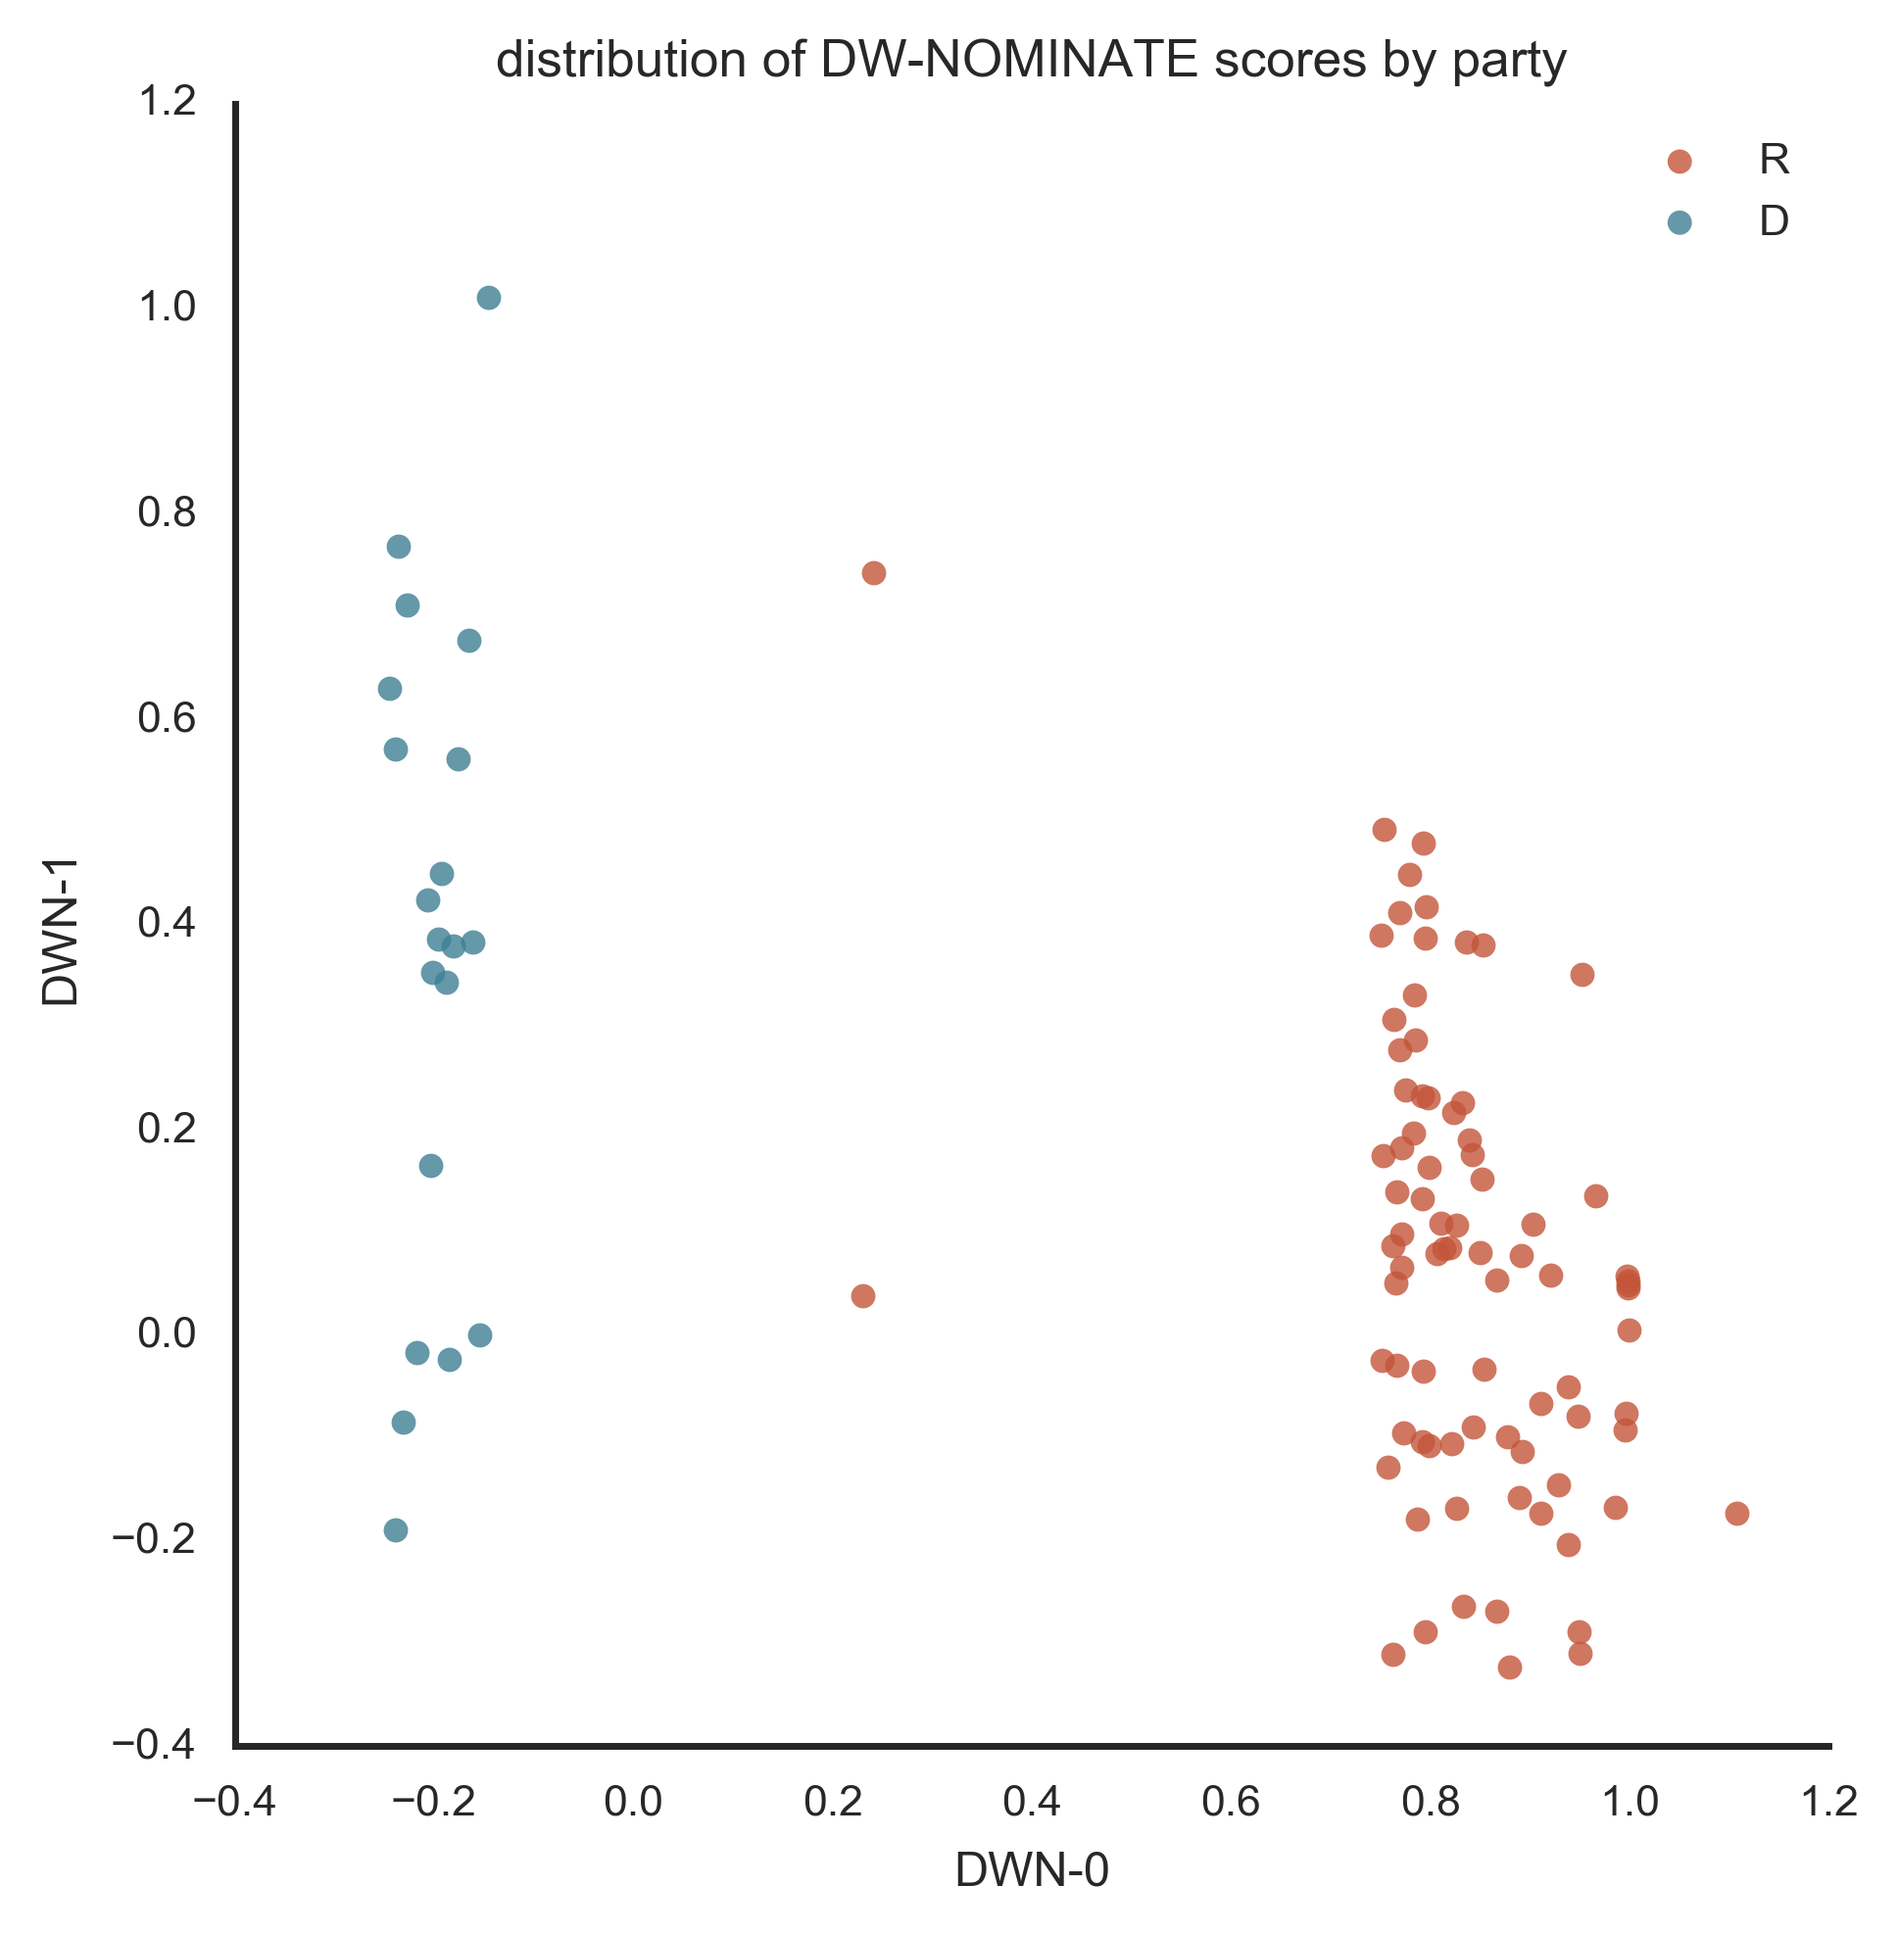
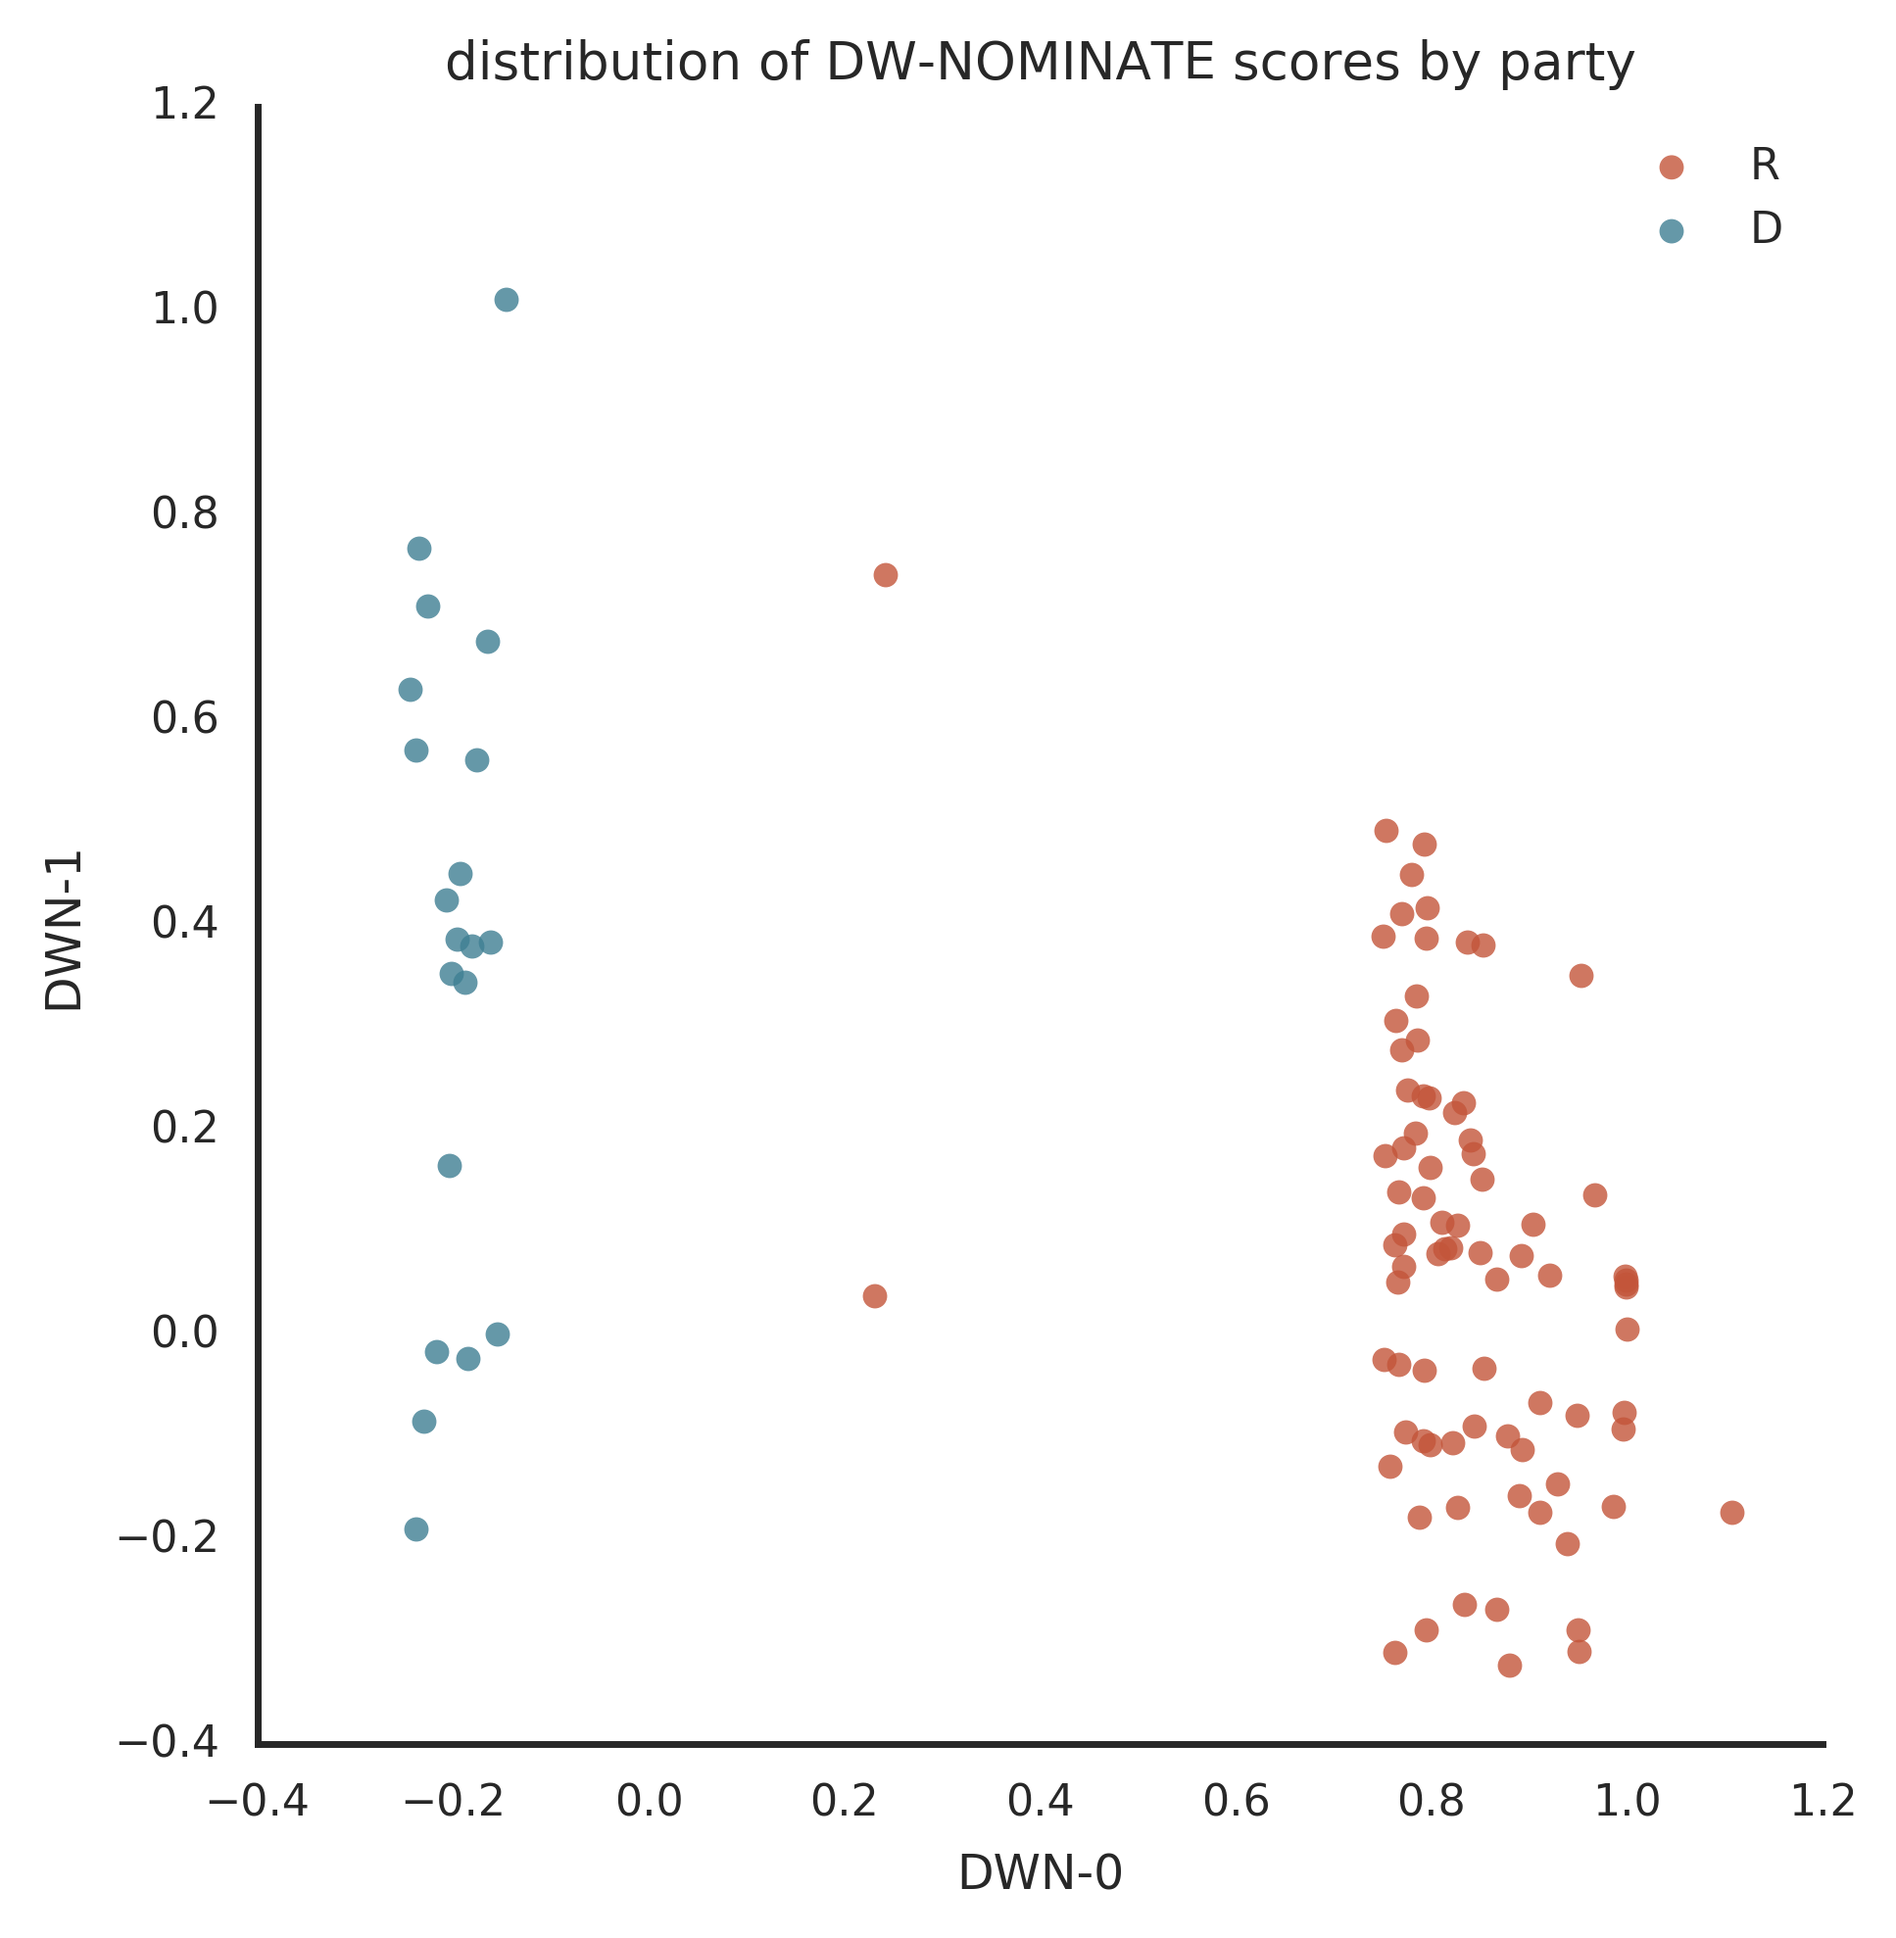
plot dwn scores for expanded feature set

diff --git a/keri/scripts/LOOCV.py b/keri/scripts/LOOCV.py
@@ -15,9 +15,9 @@ from operator import itemgetter
 
 parser = argparse.ArgumentParser(description='LOOCV over dataset')
 parser.add_argument('--fm', type=str, help='feature matrix',
-        default='../../data/features/cand_parse_all_2014_feat_matrix_unnormed_trimmed.pkl')
+        default='../../data/features/cand_parse_all_fresh_2014_feat_matrix_trim_normed.pkl')
 parser.add_argument('--cf', type=str, help='file of candidates and'
-        ' CIDs', default='../../joe/out/cand_parse_all.dat')
+        ' CIDs', default='../../joe/out/split/cand_parse_all_freshG.dat')
 parser.add_argument('--pltd', action='store_true', help='plot dwn' 
         ' distribution', default=False)
 parser.add_argument('--ipnb', action='store_true', help='open ipython'
@@ -54,7 +54,7 @@ def main():
                 fit_reg=False, palette=cm, legend=False)
         plt.legend(loc='upper right')
         plt.title('distribution of DW-NOMINATE scores by party')
-        party_df.savefig('../../data/out/dwn_nooutlier.png', dpi=400, bbox_inches='tight')
+        party_df.savefig('../../data/out/dwn.png', dpi=400, bbox_inches='tight')
 
     # training set and tragets 
     X_raw, DWN_0, DWN_1 = np.array(data), dwn0.T, dwn1.T
